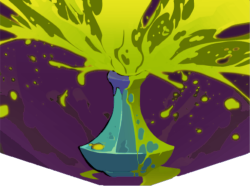
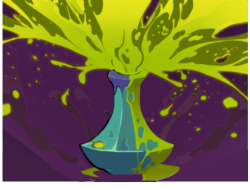
Updated card art; tweaks to card rarity

diff --git a/src/main/java/hydrahatrack/clintock/cards/ImpulsiveShot.java b/src/main/java/hydrahatrack/clintock/cards/ImpulsiveShot.java
@@ -27,7 +27,7 @@ public class ImpulsiveShot extends CustomCard {
 
     public ImpulsiveShot() {
         super(ID, NAME, ClintockMod.getCardImagePath(ID), COST, DESCRIPTION, CardType.ATTACK,
-                AbstractCardEnum.CLINTOCK_COLOR, CardRarity.UNCOMMON, CardTarget.ENEMY);
+                AbstractCardEnum.CLINTOCK_COLOR, CardRarity.COMMON, CardTarget.ENEMY);
 
         this.baseDamage = this.damage = ATTACK_DMG;
         this.baseMagicNumber = this.magicNumber = EXHAUST_CARD_COUNT;

diff --git a/src/main/java/hydrahatrack/clintock/cards/ProteinUtilization.java b/src/main/java/hydrahatrack/clintock/cards/ProteinUtilization.java
@@ -28,7 +28,7 @@ public class ProteinUtilization extends CustomCard {
 
     public ProteinUtilization() {
         super(ID, NAME, ClintockMod.getCardImagePath(ID), COST, DESCRIPTION, CardType.ATTACK,
-                AbstractCardEnum.CLINTOCK_COLOR, CardRarity.COMMON, CardTarget.ENEMY);
+                AbstractCardEnum.CLINTOCK_COLOR, CardRarity.UNCOMMON, CardTarget.ENEMY);
 
         this.baseDamage = this.damage = ATTACK_DMG;
         this.isMultiDamage = true;

diff --git a/src/main/java/hydrahatrack/clintock/cards/Epidemic.java b/src/main/java/hydrahatrack/clintock/cards/Epidemic.java
@@ -24,7 +24,7 @@ public class Epidemic extends CustomCard {
 
     public Epidemic() {
         super(ID, NAME, ClintockMod.getCardImagePath(ID), COST, DESCRIPTION, CardType.ATTACK,
-                AbstractCardEnum.CLINTOCK_COLOR, CardRarity.UNCOMMON, CardTarget.ALL_ENEMY);
+                AbstractCardEnum.CLINTOCK_COLOR, CardRarity.COMMON, CardTarget.ALL_ENEMY);
 
         this.baseDamage = this.damage = ATTACK_DMG;
         this.isMultiDamage = true;

diff --git a/src/main/java/hydrahatrack/clintock/cards/GlucoseToxicity.java b/src/main/java/hydrahatrack/clintock/cards/GlucoseToxicity.java
@@ -23,7 +23,7 @@ public class GlucoseToxicity extends CustomCard {
     private static final int UPGRADED_COST = 1;
 
     public GlucoseToxicity() {
-        super(ID, NAME, ClintockMod.getCardImagePath(ID), COST, DESCRIPTION, CardType.ATTACK,
+        super(ID, NAME, ClintockMod.getCardImagePath(ID), COST, DESCRIPTION, CardType.SKILL,
                 AbstractCardEnum.CLINTOCK_COLOR, CardRarity.UNCOMMON, CardTarget.ENEMY);
     }
 

diff --git a/src/main/java/hydrahatrack/clintock/cards/Alkylation.java b/src/main/java/hydrahatrack/clintock/cards/Alkylation.java
@@ -26,7 +26,7 @@ public class Alkylation extends CustomCard {
 
     public Alkylation() {
         super(ID, NAME, ClintockMod.getCardImagePath(ID), COST, DESCRIPTION, CardType.SKILL,
-                AbstractCardEnum.CLINTOCK_COLOR, CardRarity.COMMON, CardTarget.NONE);
+                AbstractCardEnum.CLINTOCK_COLOR, CardRarity.UNCOMMON, CardTarget.NONE);
     }
 
     @Override
